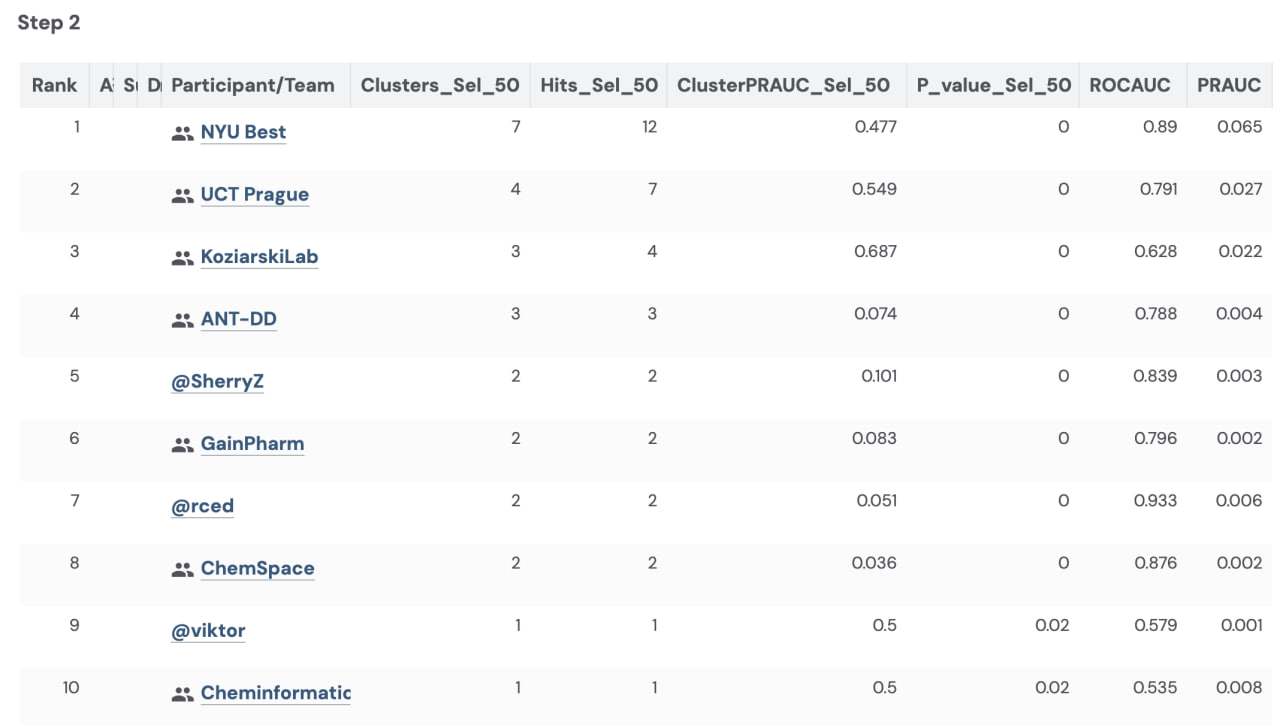
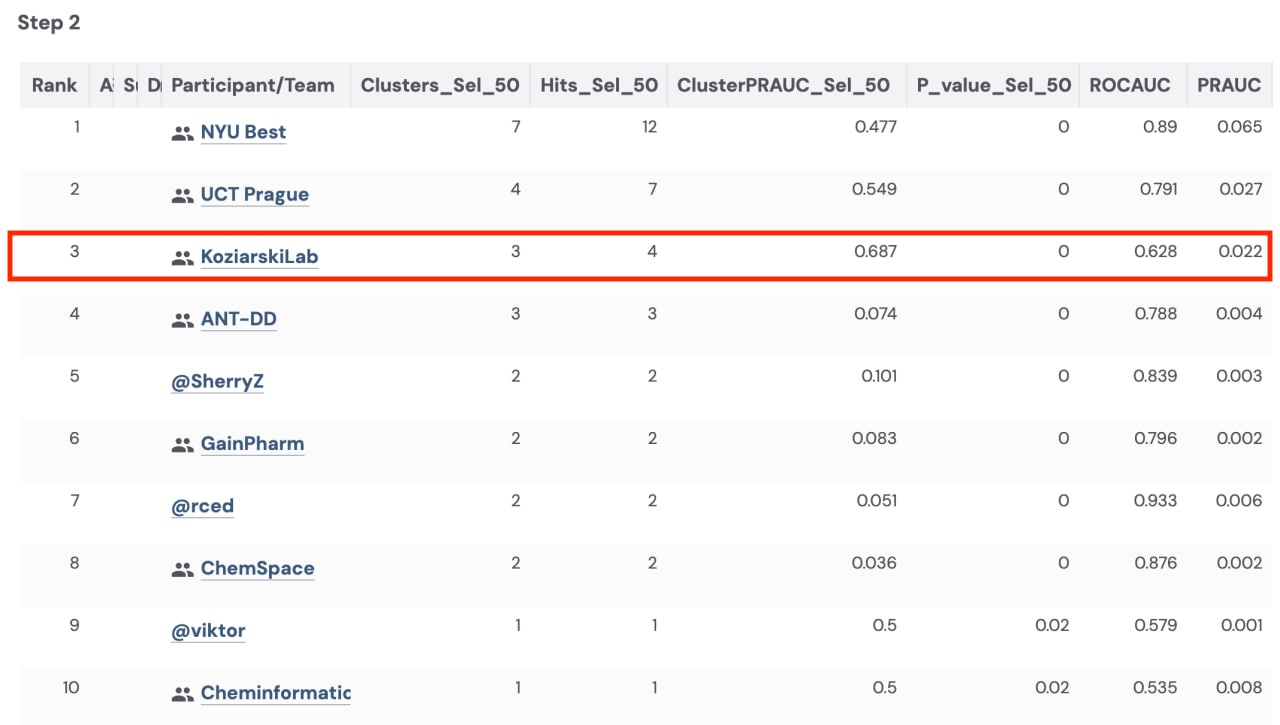
Update README with Step 3 result and split install instructions
Split Installation into the ML and docking conda environments, which
have conflicting dependencies and cannot share an environment.

Split Benchmark into Step 2 and Step 3, adding the Step 3 leaderboard
(Fig3) where we placed 2nd, and note the placement in the title.

Claude-Session: https://claude.ai/code/session_01M1Hqs2PRWY3ifveYJJjR3T

Changed region(s): [[0.0, 0.3034, 1.0, 0.3945]]

diff --git a/README.md b/README.md
@@ -1,11 +1,11 @@
-# A Hybrid AutoML and 3D Docking Workflow for DEL-ASMS-Based Prediction of WDR91 Binders
+# A Hybrid AutoML and 3D Docking Workflow for DEL-ASMS-Based Prediction of WDR91 Binders [the 2nd place solution of the First DREAM Target 2035 Drug Discovery Challenge]
 
-<img src="materials/Fig1.png" alt="drawing" width="75%"/>
+<img src="materials/Fig1.png" alt="drawing" width="150%"/>
 
 [[Benchmark](https://www.synapse.org/Synapse:syn65660836/wiki/632249)][[Implementation details](materials/A_Hybrid_AutoML_and_3D_Docking_Workflow_for_DEL_ASMS_Based_Prediction_of_WDR91_Binders.pdf)]
 
 ## Introduction
-We introduce a two-step process to establish robust baselines for compound selection, leveraging automated machine learning (AutoML) and advanced molecular modeling for the DREAM Target 2035 Drug Discovery Challenge. 
+We introduce a three-step process to establish robust baselines for compound selection, leveraging automated machine learning (AutoML) and advanced molecular modeling for the First DREAM Target 2035 Drug Discovery Challenge. 
 
 Step 1 centers on the use of AutoML with molecular fingerprints, aiming to systematically optimize both classification accuracy and chemical diversity. This step encompasses data preprocessing, optimal metric identification with AutoML, baseline model training, fingerprint correlation analysis, cross-fingerprint model ensembling, and final test set prediction—each component building upon the previous to refine predictive performance.
 
@@ -15,6 +15,10 @@ Step 3 extends the workflow to large-scale screening of the Enamine collection, 
 
 
 ## Installation
+
+The workflow uses two separate conda environments: 
+
+### ML environment
 ```
 conda create -n dream_challenge_2025 python=3.11
 conda activate dream_challenge_2025
@@ -23,9 +27,24 @@ pip install -e .[cuda]
 pip install flaml ipython pyarrow matplotlib xgboost lightgbm
 ```
 
+### Docking environment
+```
+cd step2/docking/
+conda env create -f environment.yaml
+conda activate wdr91_docking
+```
+`step2/docking/` and `step3/docking/` are identical — either directory works.
+
 
 
 ## Benchmark
+
+### Step 2
 <img src="materials/Fig2.jpg" alt="drawing" width="75%"/>
 
 We are at the 3rd place of the Step 2 in the first DREAM Target 2035 Drug Discovery Challenge.
+
+### Step 3
+<img src="materials/Fig3.png" alt="drawing" width="75%"/>
+
+We are at the 2nd place of the Step 3 in the first DREAM Target 2035 Drug Discovery Challenge.
